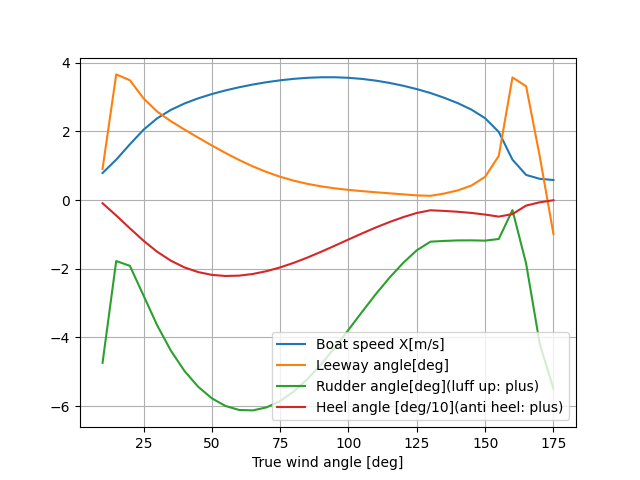
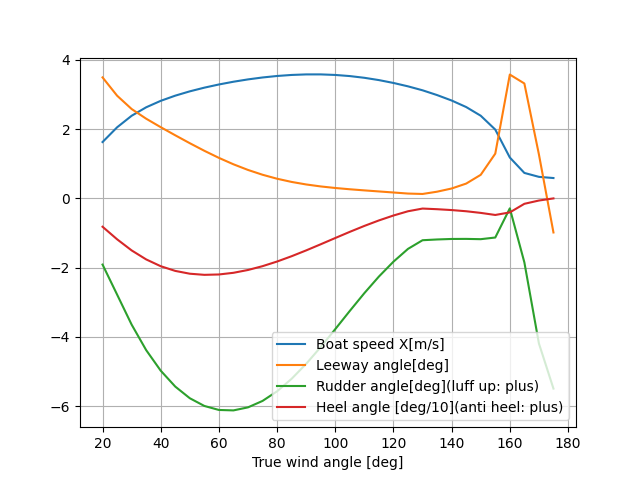
---

diff --git a/vpp.py b/vpp.py
@@ -16,11 +16,11 @@ class VPP:
         self.cfs = cfs
         self.blc = Balance(cts,cfs)
 
-    def run(self,a0,a1,d,verbose=False):
+    def run(self,a0,a1,verbose=False):
         # --- start ---
         dat = [] 
         x = [0.8*self.ut, 0, 0, 0]
-        for self.gamma_t in range(a0,a1,d):
+        for self.gamma_t in range(a0,a1,5):
             result = sp.optimize.root(self.objective, x, method='lm') #'hybr'
             if verbose:
                 print("twa={0:5.1f}, u={1:5.2f}, beta={2:5.2f}, delta={3:5.1f}, phi={4:5.1f}, residual={5:5.2f}".format(self.gamma_t,result.x[0],result.x[1],result.x[2],result.x[3],np.linalg.norm(result.fun, ord=2)))

diff --git a/main.py b/main.py
@@ -14,7 +14,7 @@ class Constants:
         self.rhow = 1025.0
         self.g    = 9.807
 
-        a = 1.0 # 2.515
+        a = 1 # 2.515
         self.lwl       = 8.55 * a
         self.draft     = 1.94 * a
         self.sail_area = 56.4 * a**2
@@ -37,7 +37,7 @@ if __name__ == "__main__":
     cfs = Coefficients()
     cts = Constants()
     vpp = VPP(ut,cts,cfs)
-    vpp.run(10,180,5)      # true wind angle range
+    vpp.run(20,180)      # true wind angle range
     vpp.plot_polar()
     vpp.plot()
     

diff --git a/coeffs.py b/coeffs.py
@@ -6,7 +6,6 @@ class Coefficients:
 
     def __init__(self):
         # --- hull ---
-        #self.rt = [-0.8452489, 11.2259701, -45.8784451, 81.1828123, -50.3850062, 11.3636364]
         self.ct = [0.0, -1.4134, 1.8087, -0.664, 0.0822, 0.0043]
 
         self.hull_x = [0.337000, 0.000000, -0.000983, -1.880000]
